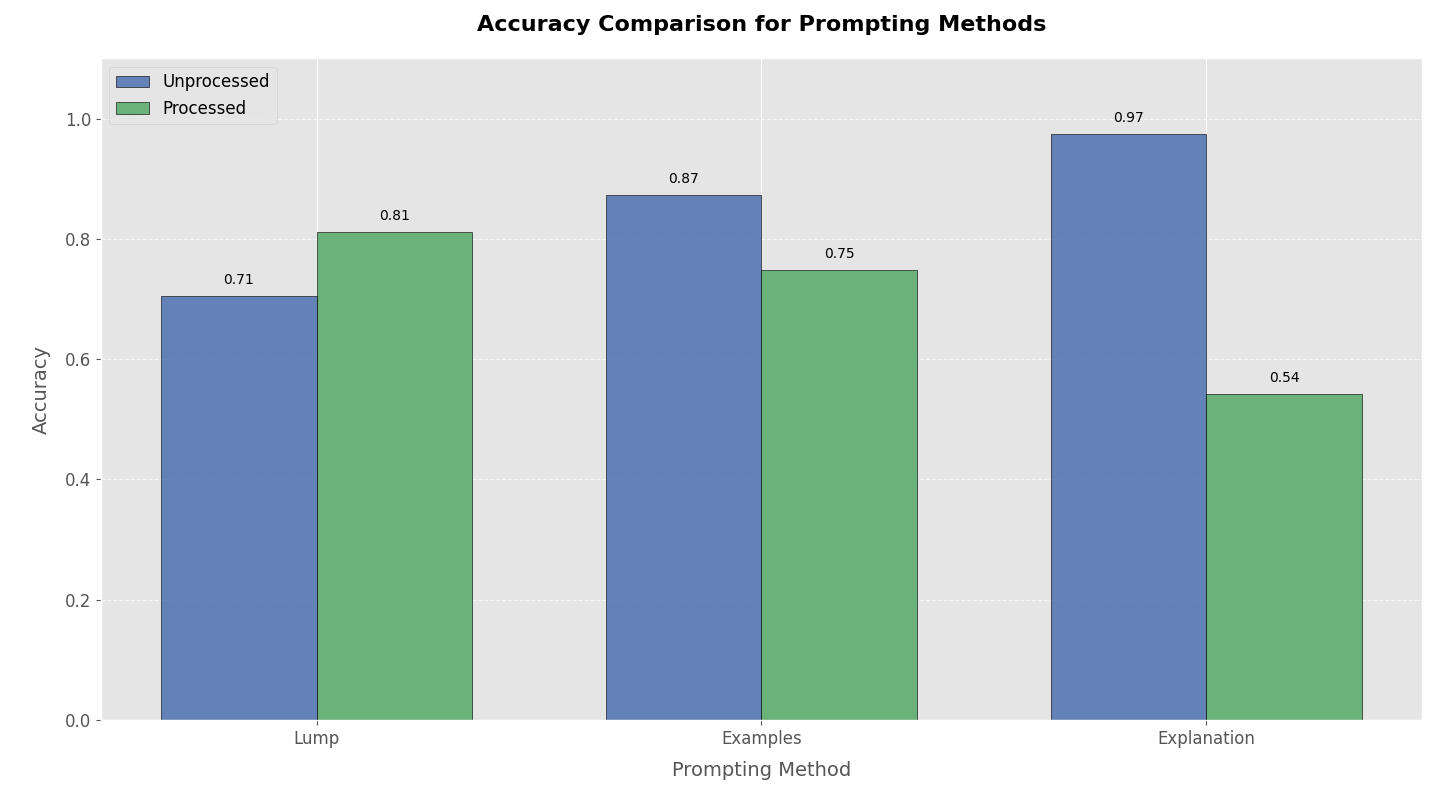
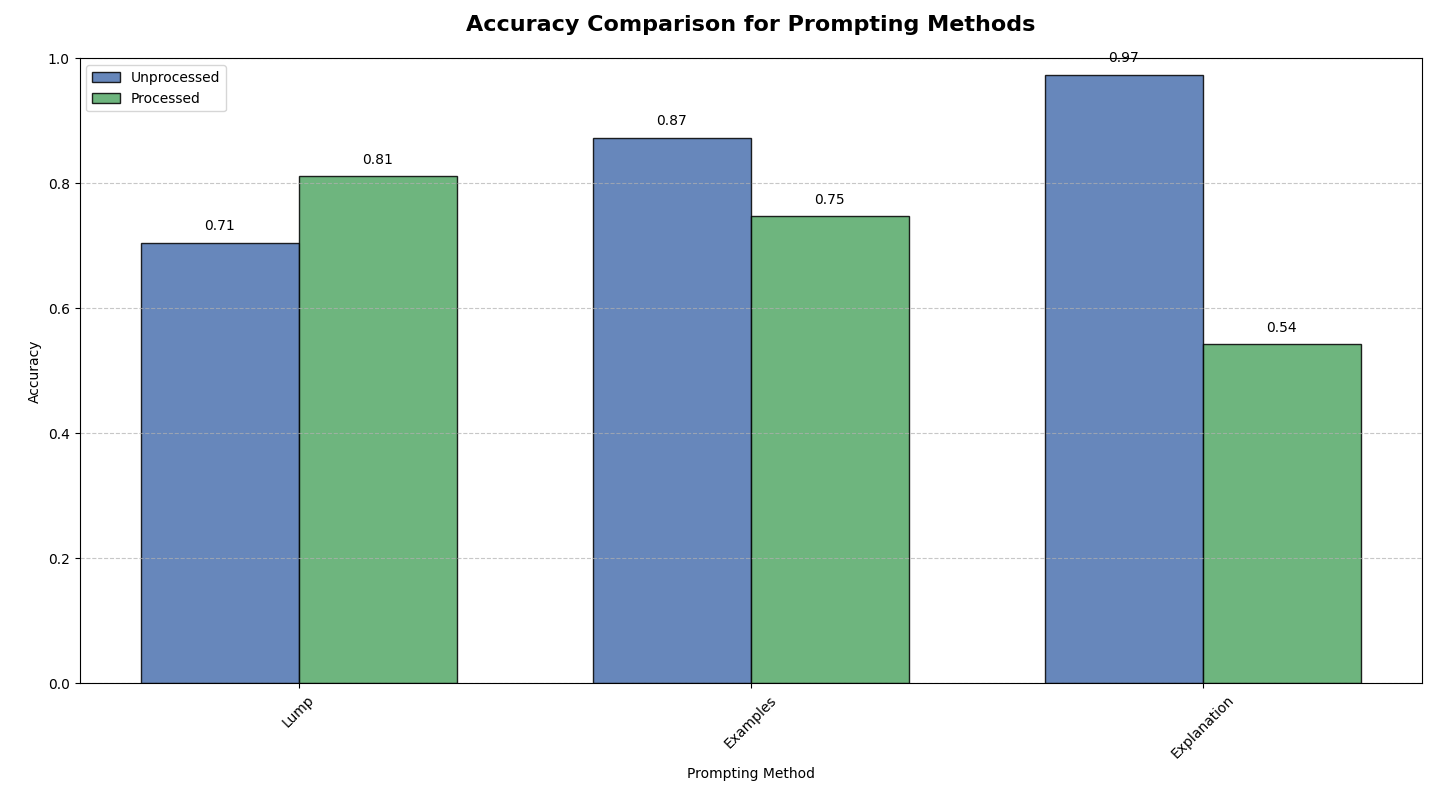
Edited plots

diff --git a/langchain_intro/accuracyPlot2.py b/langchain_intro/accuracyPlot2.py
@@ -89,7 +89,7 @@ x = np.arange(len(labels))  # Label locations
 width = 0.35  # Width of bars
 
 # Plotting
-plt.style.use("ggplot")
+# plt.style.use("ggplot")
 plt.figure(figsize=(12, 8))
 
 # Create the grouped bar plot
@@ -98,8 +98,11 @@ plt.bar(x + width / 2, processed_values, width, label="Processed", color="#55a86
 
 # Add title and labels with enhanced fonts
 plt.title("Accuracy Comparison for Prompting Methods", fontsize=16, fontweight="bold", pad=20)
-plt.xlabel("Prompting Method", fontsize=14, labelpad=10)
-plt.ylabel("Accuracy", fontsize=14, labelpad=10)
+plt.xlabel("Prompting Method")
+plt.ylabel("Accuracy")
+plt.xticks(x, labels, rotation=45)
+plt.ylim(0, 1)
+plt.legend(loc="upper left")
 
 # Add gridlines for better readability
 plt.grid(axis="y", linestyle="--", alpha=0.7)
@@ -111,14 +114,13 @@ for i, v in enumerate(processed_values):
     plt.text(x[i] + width / 2, v + 0.02, f"{v:.2f}", ha="center", fontsize=10, fontweight="medium")
 
 # Set axis limits and ticks
-plt.ylim(0, 1.1)  # Extend slightly beyond 1 for better visibility of annotations
-plt.xticks(x, labels, fontsize=12)
-plt.yticks(fontsize=12)
-plt.legend(loc="upper left", fontsize=12)
+# plt.ylim(0, 1.1)  # Extend slightly beyond 1 for better visibility of annotations
+# plt.xticks(x, labels, fontsize=12)
+# plt.yticks(fontsize=12)
+# plt.legend(loc="upper left", fontsize=12)
 
 # Save the figure as a high-resolution image
 plt.tight_layout()
-plt.savefig("accuracy_grouped_plot.png", dpi=300)  # Save as PNG for high-quality research paper graphics
 
 # Display the plot
 plt.show()
